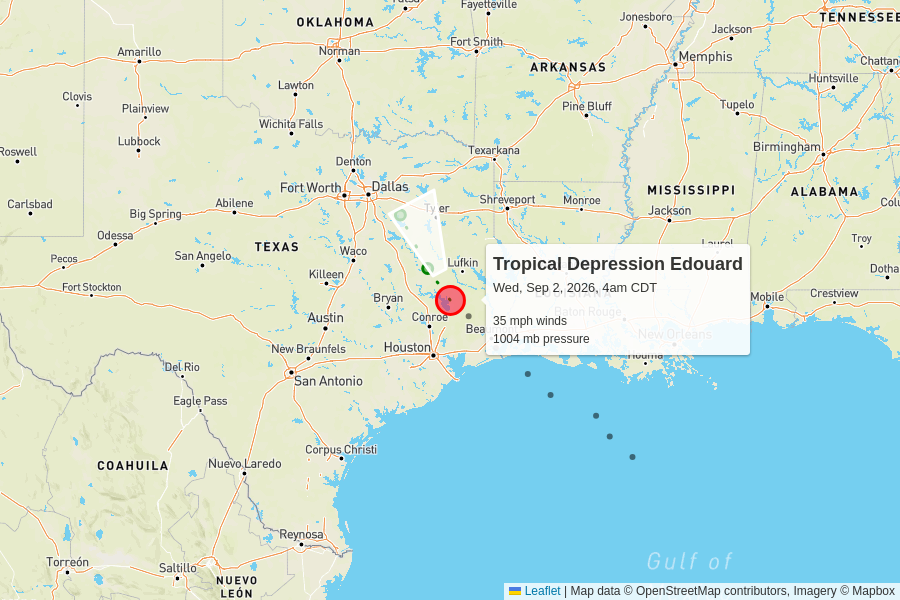
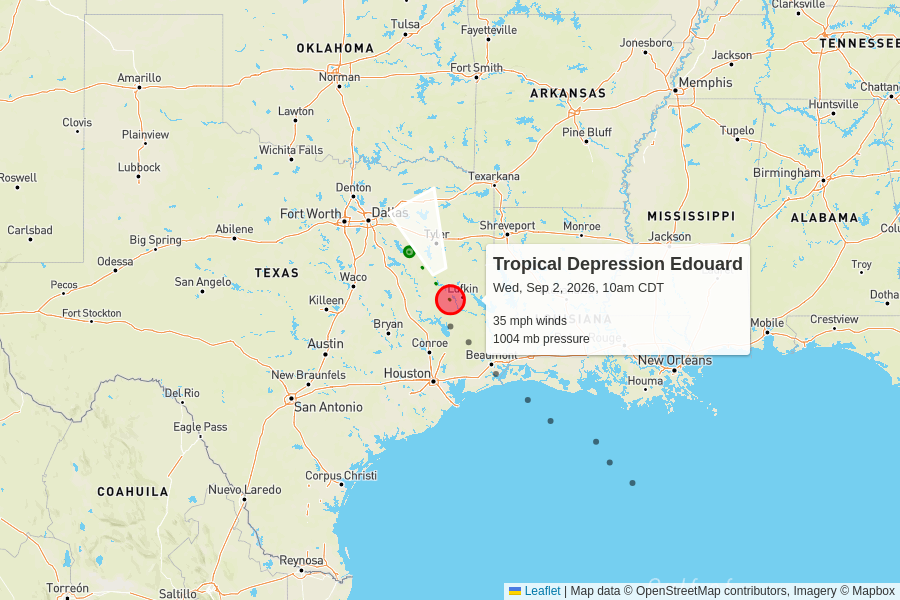
automatic update

diff --git a/docs/2026.html b/docs/2026.html
@@ -45,13 +45,13 @@
       <grid-container>
           <grid-row>
             <script type="text/json" id="storm_data_AL052026">
-              {"pressure":[{"timestamp":"2026-08-31T15:00:00.000Z","value":1013},{"timestamp":"2026-08-31T21:00:00.000Z","value":1011},{"timestamp":"2026-09-01T03:00:00.000Z","value":1005},{"timestamp":"2026-09-01T09:00:00.000Z","value":1005},{"timestamp":"2026-09-01T15:00:00.000Z","value":1000},{"timestamp":"2026-09-01T21:00:00.000Z","value":998},{"timestamp":"2026-09-02T03:00:00.000Z","value":1002},{"timestamp":"2026-09-02T09:00:00.000Z","value":1004}],"wind":[{"timestamp":"2026-08-31T15:00:00.000Z","value":35},{"timestamp":"2026-08-31T21:00:00.000Z","value":35},{"timestamp":"2026-09-01T03:00:00.000Z","value":40},{"timestamp":"2026-09-01T09:00:00.000Z","value":40},{"timestamp":"2026-09-01T15:00:00.000Z","value":50},{"timestamp":"2026-09-01T21:00:00.000Z","value":50},{"timestamp":"2026-09-02T03:00:00.000Z","value":35},{"timestamp":"2026-09-02T09:00:00.000Z","value":35}]}
+              {"pressure":[{"timestamp":"2026-08-31T15:00:00.000Z","value":1013},{"timestamp":"2026-08-31T21:00:00.000Z","value":1011},{"timestamp":"2026-09-01T03:00:00.000Z","value":1005},{"timestamp":"2026-09-01T09:00:00.000Z","value":1005},{"timestamp":"2026-09-01T15:00:00.000Z","value":1000},{"timestamp":"2026-09-01T21:00:00.000Z","value":998},{"timestamp":"2026-09-02T03:00:00.000Z","value":1002},{"timestamp":"2026-09-02T09:00:00.000Z","value":1004},{"timestamp":"2026-09-02T15:00:00.000Z","value":1004}],"wind":[{"timestamp":"2026-08-31T15:00:00.000Z","value":35},{"timestamp":"2026-08-31T21:00:00.000Z","value":35},{"timestamp":"2026-09-01T03:00:00.000Z","value":40},{"timestamp":"2026-09-01T09:00:00.000Z","value":40},{"timestamp":"2026-09-01T15:00:00.000Z","value":50},{"timestamp":"2026-09-01T21:00:00.000Z","value":50},{"timestamp":"2026-09-02T03:00:00.000Z","value":35},{"timestamp":"2026-09-02T09:00:00.000Z","value":35},{"timestamp":"2026-09-02T15:00:00.000Z","value":35}]}
             </script>              <grid-container class="storm">
                 <grid-row onClick="toggle('storm_AL052026')">
                   <h2>
                     Tropical Depression Edouard
                     <div class="updated">
-                      last updated <time datetime="2026-09-02T09:00:00.000Z">2026-09-02T09:00:00.000Z</time>
+                      last updated <time datetime="2026-09-02T15:00:00.000Z">2026-09-02T15:00:00.000Z</time>
                     </div>
                   </h2>
                 </grid-row>
@@ -74,7 +74,7 @@
                         <td>
                           1004 mb
                           <br>
-                          +2 mb since last update
+                          0 mb since last update
                         </td>
                         <td>
                           5 mph to the north-northwest

diff --git a/docs/index.html b/docs/index.html
@@ -45,13 +45,13 @@
       <grid-container>
           <grid-row>
             <script type="text/json" id="storm_data_AL052026">
-              {"pressure":[{"timestamp":"2026-08-31T15:00:00.000Z","value":1013},{"timestamp":"2026-08-31T21:00:00.000Z","value":1011},{"timestamp":"2026-09-01T03:00:00.000Z","value":1005},{"timestamp":"2026-09-01T09:00:00.000Z","value":1005},{"timestamp":"2026-09-01T15:00:00.000Z","value":1000},{"timestamp":"2026-09-01T21:00:00.000Z","value":998},{"timestamp":"2026-09-02T03:00:00.000Z","value":1002},{"timestamp":"2026-09-02T09:00:00.000Z","value":1004}],"wind":[{"timestamp":"2026-08-31T15:00:00.000Z","value":35},{"timestamp":"2026-08-31T21:00:00.000Z","value":35},{"timestamp":"2026-09-01T03:00:00.000Z","value":40},{"timestamp":"2026-09-01T09:00:00.000Z","value":40},{"timestamp":"2026-09-01T15:00:00.000Z","value":50},{"timestamp":"2026-09-01T21:00:00.000Z","value":50},{"timestamp":"2026-09-02T03:00:00.000Z","value":35},{"timestamp":"2026-09-02T09:00:00.000Z","value":35}]}
+              {"pressure":[{"timestamp":"2026-08-31T15:00:00.000Z","value":1013},{"timestamp":"2026-08-31T21:00:00.000Z","value":1011},{"timestamp":"2026-09-01T03:00:00.000Z","value":1005},{"timestamp":"2026-09-01T09:00:00.000Z","value":1005},{"timestamp":"2026-09-01T15:00:00.000Z","value":1000},{"timestamp":"2026-09-01T21:00:00.000Z","value":998},{"timestamp":"2026-09-02T03:00:00.000Z","value":1002},{"timestamp":"2026-09-02T09:00:00.000Z","value":1004},{"timestamp":"2026-09-02T15:00:00.000Z","value":1004}],"wind":[{"timestamp":"2026-08-31T15:00:00.000Z","value":35},{"timestamp":"2026-08-31T21:00:00.000Z","value":35},{"timestamp":"2026-09-01T03:00:00.000Z","value":40},{"timestamp":"2026-09-01T09:00:00.000Z","value":40},{"timestamp":"2026-09-01T15:00:00.000Z","value":50},{"timestamp":"2026-09-01T21:00:00.000Z","value":50},{"timestamp":"2026-09-02T03:00:00.000Z","value":35},{"timestamp":"2026-09-02T09:00:00.000Z","value":35},{"timestamp":"2026-09-02T15:00:00.000Z","value":35}]}
             </script>              <grid-container class="storm">
                 <grid-row onClick="toggle('storm_AL052026')">
                   <h2>
                     Tropical Depression Edouard
                     <div class="updated">
-                      last updated <time datetime="2026-09-02T09:00:00.000Z">2026-09-02T09:00:00.000Z</time>
+                      last updated <time datetime="2026-09-02T15:00:00.000Z">2026-09-02T15:00:00.000Z</time>
                     </div>
                   </h2>
                 </grid-row>
@@ -74,7 +74,7 @@
                         <td>
                           1004 mb
                           <br>
-                          +2 mb since last update
+                          0 mb since last update
                         </td>
                         <td>
                           5 mph to the north-northwest
